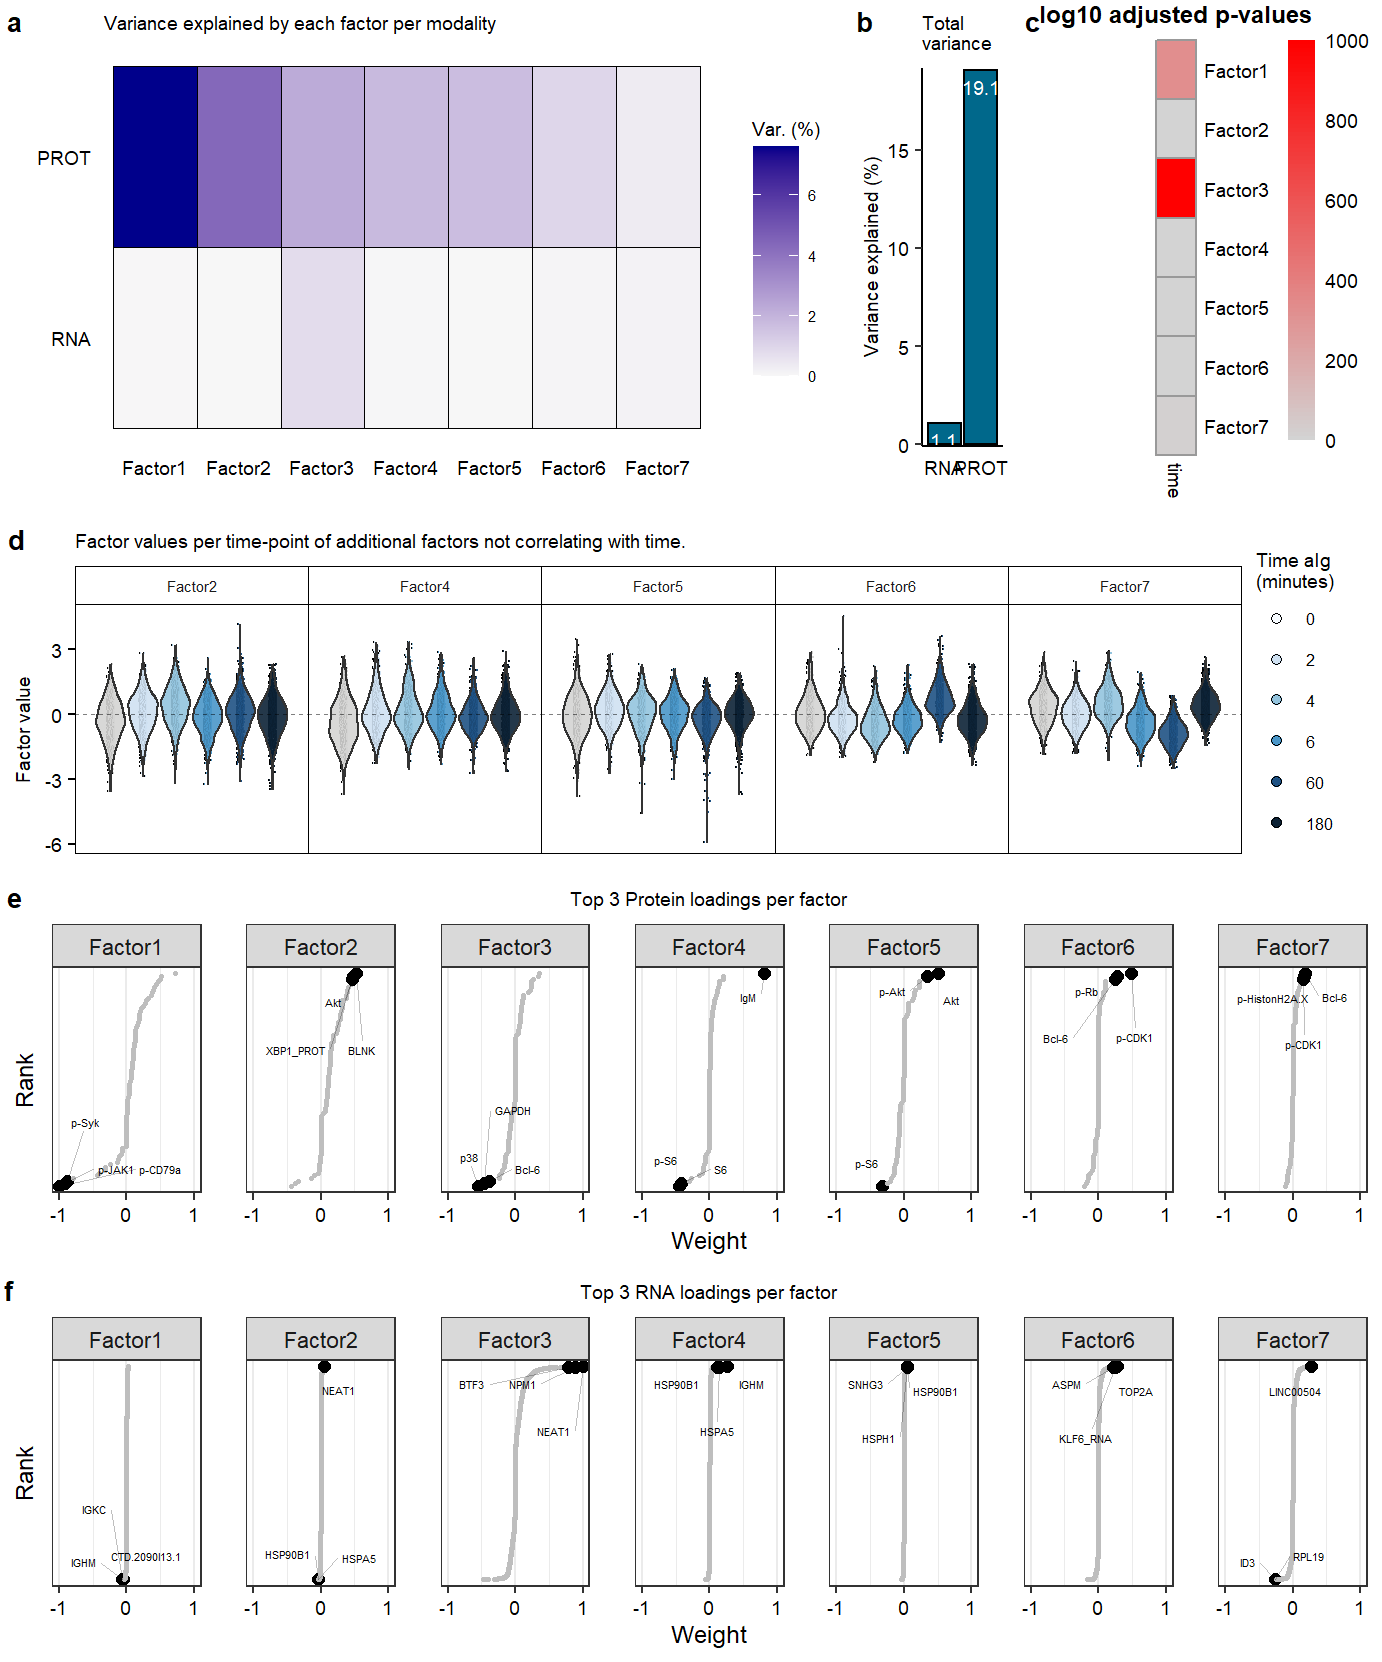
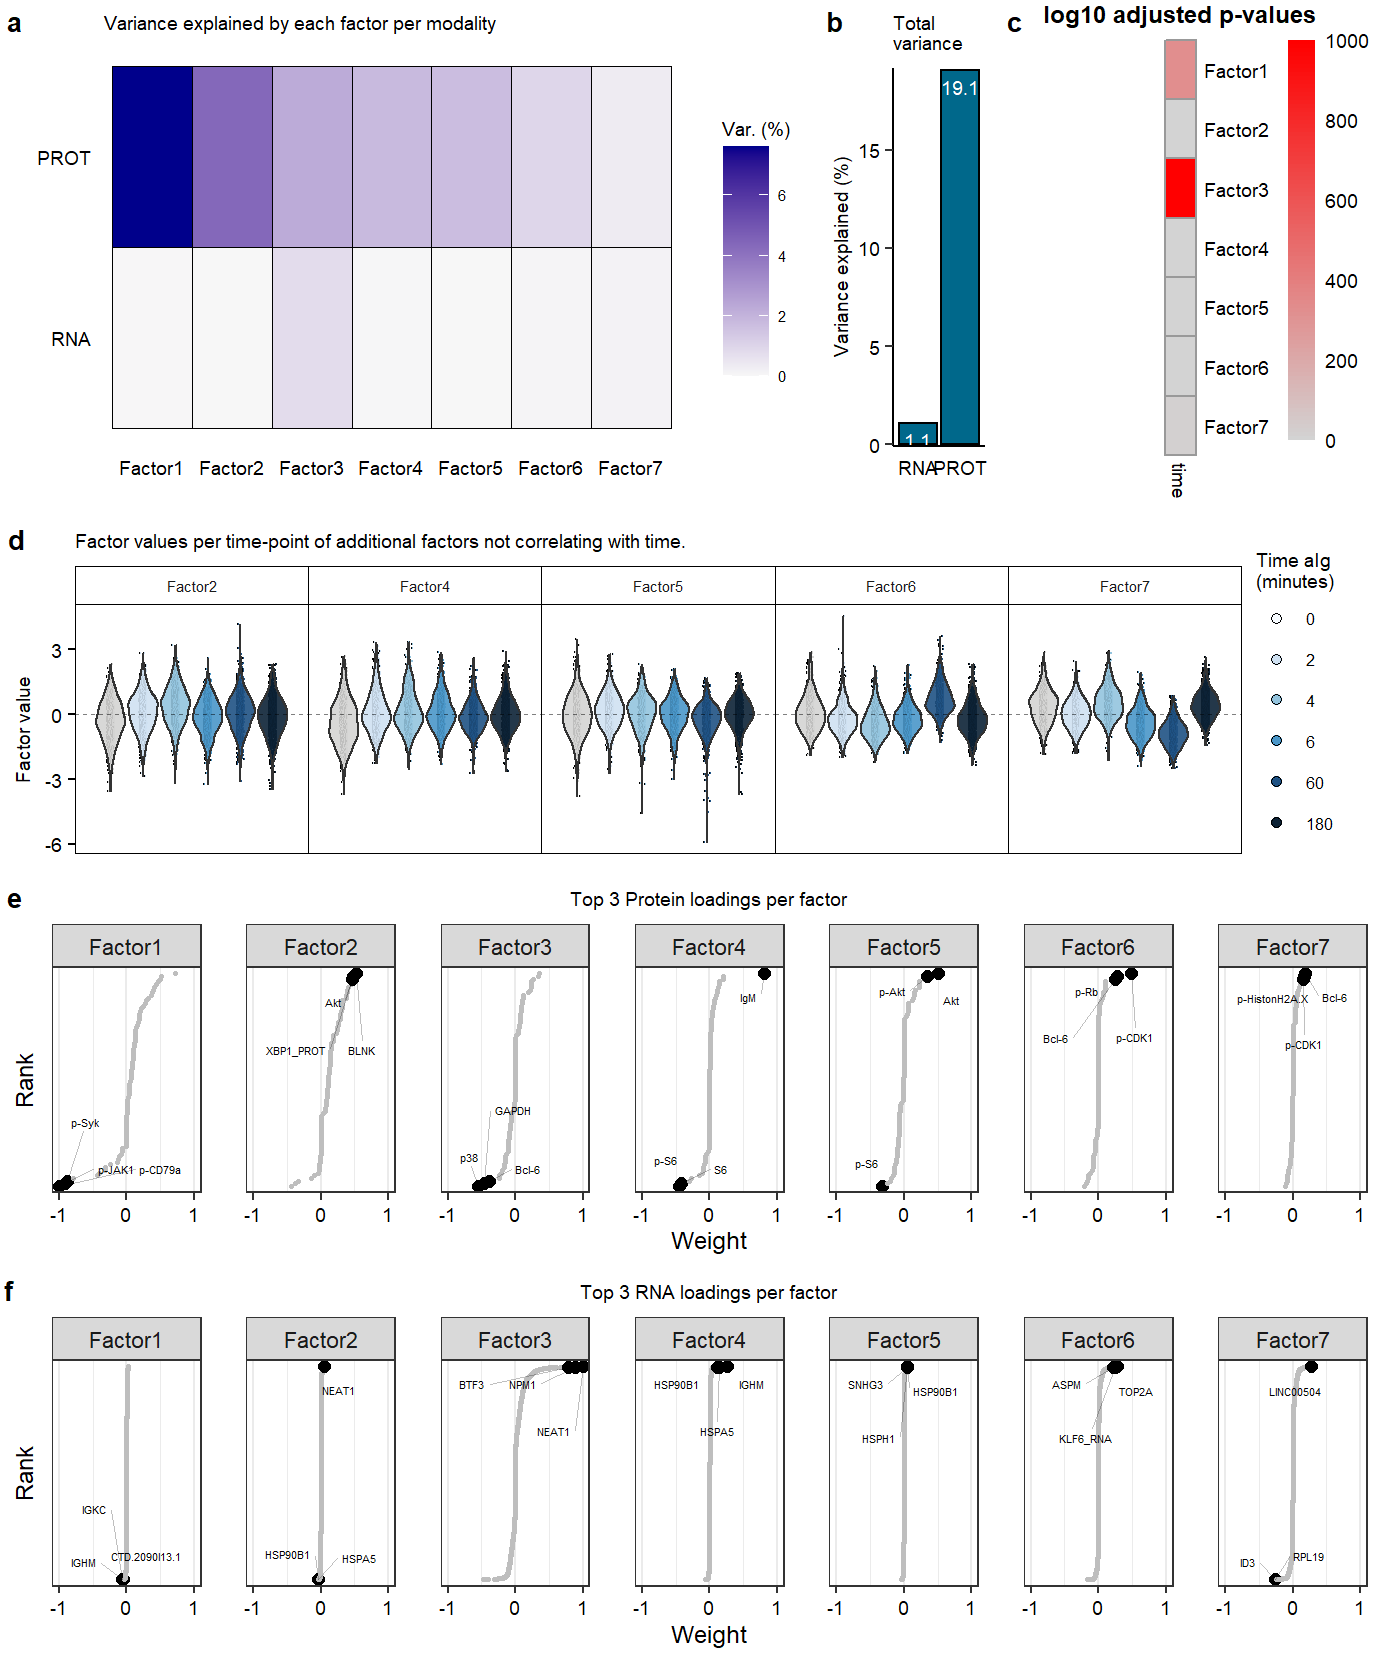
Build site.

diff --git a/docs/MOFAaIg.html b/docs/MOFAaIg.html
@@ -524,16 +524,16 @@ This reproducible <a href="http://rmarkdown.rstudio.com">R Markdown</a> analysis
 <div class="panel panel-default">
 <div class="panel-heading">
 <p class="panel-title">
-<a data-toggle="collapse" data-parent="#workflowr-checks" href="#strongRepositoryversionstrongahrefhttpsgithubcomjessievbQuRIEseqanalysistreea96d5ba425ae8f6bded33f2e72d8825346c51595targetblanka96d5baa"> <span class="glyphicon glyphicon-ok text-success" aria-hidden="true"></span> <strong>Repository version:</strong> <a href="https://github.com/jessievb/QuRIEseq_analysis/tree/a96d5ba425ae8f6bded33f2e72d8825346c51595" target="_blank">a96d5ba</a> </a>
+<a data-toggle="collapse" data-parent="#workflowr-checks" href="#strongRepositoryversionstrongahrefhttpsgithubcomjessievbQuRIEseqanalysistree6b16185a88693c643e53e69d161a8810eeddafc0targetblank6b16185a"> <span class="glyphicon glyphicon-ok text-success" aria-hidden="true"></span> <strong>Repository version:</strong> <a href="https://github.com/jessievb/QuRIEseq_analysis/tree/6b16185a88693c643e53e69d161a8810eeddafc0" target="_blank">6b16185</a> </a>
 </p>
 </div>
[2 lines of base64/hex data omitted]
 <div class="panel-body">
 <p>
 Great! You are using Git for version control. Tracking code development and connecting the code version to the results is critical for reproducibility.
 </p>
 <p>
-The results in this page were generated with repository version <a href="https://github.com/jessievb/QuRIEseq_analysis/tree/a96d5ba425ae8f6bded33f2e72d8825346c51595" target="_blank">a96d5ba</a>. See the <em>Past versions</em> tab to see a history of the changes made to the R Markdown and HTML files.
+The results in this page were generated with repository version <a href="https://github.com/jessievb/QuRIEseq_analysis/tree/6b16185a88693c643e53e69d161a8810eeddafc0" target="_blank">6b16185</a>. See the <em>Past versions</em> tab to see a history of the changes made to the R Markdown and HTML files.
 </p>
 <p>
 Note that you need to be careful to ensure that all relevant files for the analysis have been committed to Git prior to generating the results (you can use <code>wflow_publish</code> or <code>wflow_git_commit</code>). workflowr only checks the R Markdown file, but you know if there are other scripts or data files that it depends on. Below is the status of the Git repository when the results were generated:
@@ -599,6 +599,40 @@ Message
 </tr>
 </thead>
 <tbody>
+<tr>
+<td>
+Rmd
+</td>
+<td>
+<a href="https://github.com/jessievb/QuRIEseq_analysis/blob/6b16185a88693c643e53e69d161a8810eeddafc0/analysis/MOFAaIg.Rmd" target="_blank">6b16185</a>
+</td>
+<td>
+Jessie van Buggenum
+</td>
+<td>
+2020-11-24
+</td>
+<td>
+update minor changes to suppl fig mofa
+</td>
+</tr>
+<tr>
+<td>
+html
+</td>
+<td>
+<a href="https://rawcdn.githack.com/jessievb/QuRIEseq_analysis/df6d45f219c5d06b2f1be5b9ce106c75d6534df1/docs/MOFAaIg.html" target="_blank">df6d45f</a>
+</td>
+<td>
+Jessie van Buggenum
+</td>
+<td>
+2020-11-24
+</td>
+<td>
+Build site.
+</td>
+</tr>
 <tr>
 <td>
 Rmd
@@ -1024,7 +1058,7 @@ Fig1.pca</code></pre>
 </div>
 <div id="suppl-mofa-model-properties" class="section level3">
 <h3>Suppl MOFA model properties</h3>
-<pre class="r"><code>Fig.1.suppl.mofa.row1 &lt;- plot_grid(plot.variance.perfactor.all, plot.variance.total,NULL, plot.heatmap.pval.covariates, labels = c(panellabels[1:3]), label_size = 10, ncol = 4, rel_widths = c(1.35, 0.27,0.2,0.38))
+<pre class="r"><code>Fig.1.suppl.mofa.row1 &lt;- plot_grid(plot.variance.perfactor.all, plot.variance.total,NULL, plot.heatmap.pval.covariates, labels = c(panellabels[1:3]), label_size = 10, ncol = 4, rel_widths = c(1.35, 0.3,0.25,0.38))
 
 Fig.1.suppl.mofa.row2 &lt;- plot_grid(plot.violin.factorall,legend.umap, labels = panellabels[4], label_size = 10, ncol = 2, rel_widths = c(1,0.1))
 
@@ -1032,7 +1066,7 @@ Suppl_mofa &lt;- plot_grid(Fig.1.suppl.mofa.row1, Fig.1.suppl.mofa.row2, plot.ra
 
 
 ggsave(Suppl_mofa, filename = &quot;output/paper_figures/Fig2.Suppl_MOFAaIg.pdf&quot;, width = 183, height = 220, units = &quot;mm&quot;,  dpi = 300, useDingbats = FALSE)
-ggsave(Suppl_mofa, filename = &quot;output/paper_figures/Fig2.Suppl_MOFAaIg.pdf&quot;, width = 183, height = 220, units = &quot;mm&quot;,  dpi = 300)
+ggsave(Suppl_mofa, filename = &quot;output/paper_figures/Fig2.Suppl_MOFAaIg.png&quot;, width = 183, height = 220, units = &quot;mm&quot;,  dpi = 300)
 
 Suppl_mofa</code></pre>
 <p><img src="figure/MOFAaIg.Rmd/Suppl_MOFA_model-1.png" width="691.2" style="display: block; margin: auto;" /> <em>Supplementary Figure.</em> MOFA model additional information</p>
